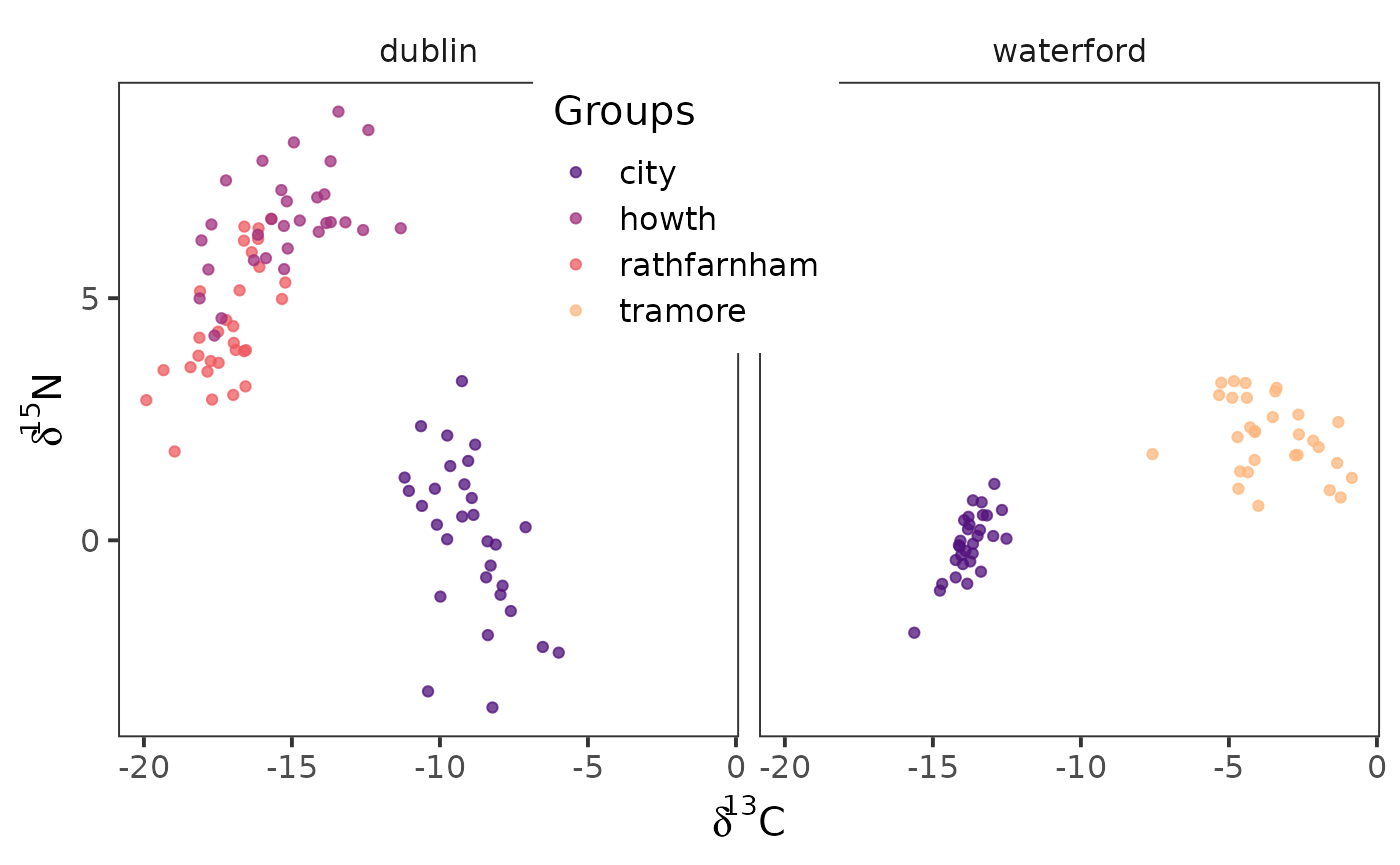
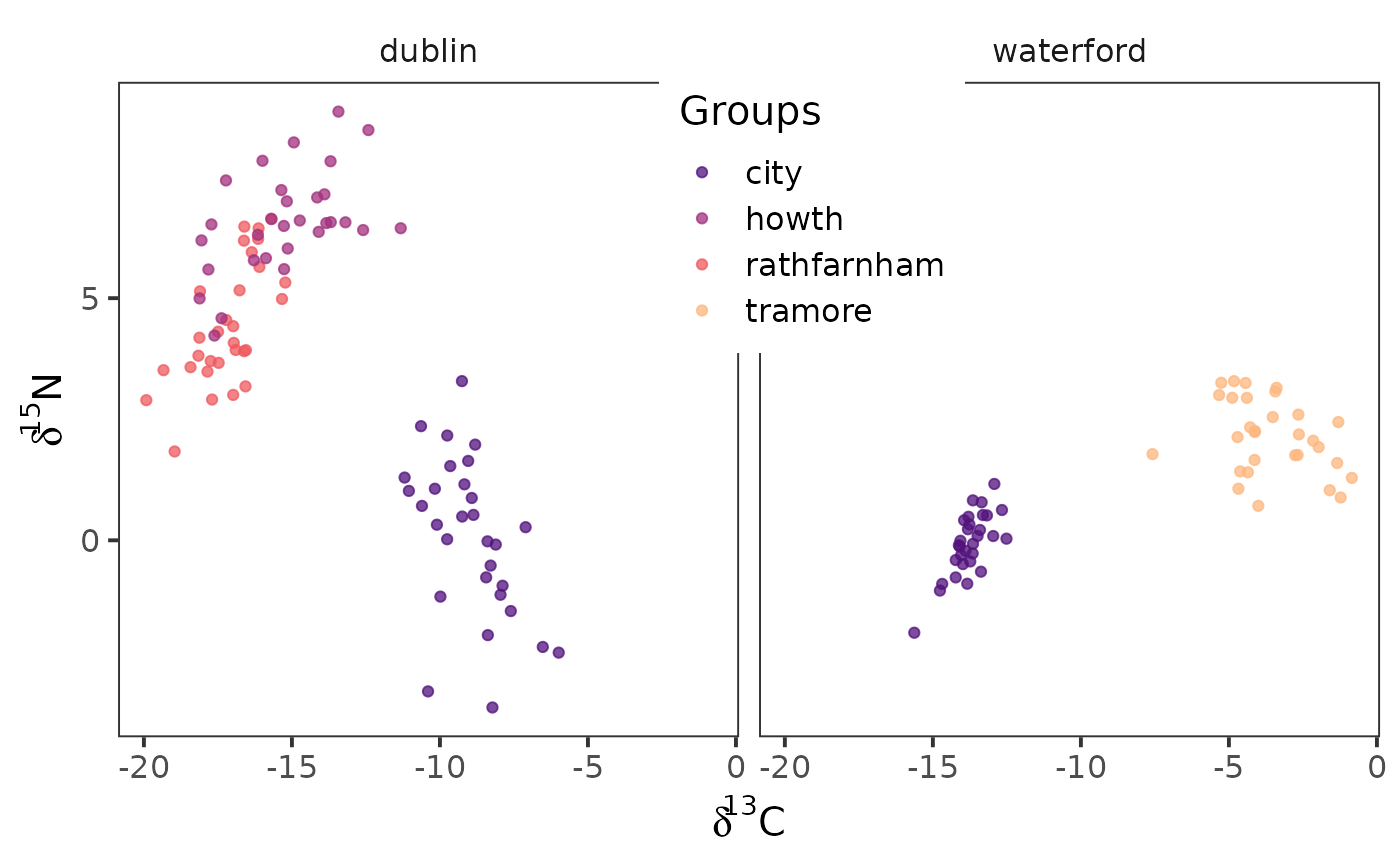
Deploying to gh-pages from @ benjaminhlina/nichetools@be2548bd6c36233514e17e11f99241a72b308791 🚀

Changed region(s): [[0.3993, 0.1873, 0.6757, 0.3746], [0.3993, 0.0936, 0.5836, 0.1561], [0.6143, 0.0936, 0.6757, 0.1249]]

diff --git a/articles/using-nichetools-with-the-package-SIBER.html b/articles/using-nichetools-with-the-package-SIBER.html
@@ -199,7 +199,7 @@ stucture.</p>
 <span>    strip.background <span class="op">=</span> <span class="fu"><a href="https://ggplot2.tidyverse.org/reference/element.html" class="external-link">element_blank</a></span><span class="op">(</span><span class="op">)</span>,</span>
 <span>    panel.grid <span class="op">=</span> <span class="fu"><a href="https://ggplot2.tidyverse.org/reference/element.html" class="external-link">element_blank</a></span><span class="op">(</span><span class="op">)</span>, </span>
 <span>    legend.position <span class="op">=</span> <span class="st">"inside"</span>,</span>
-<span>    legend.position.inside <span class="op">=</span> <span class="fu"><a href="https://rdrr.io/r/base/c.html" class="external-link">c</a></span><span class="op">(</span><span class="fl">0.45</span>, <span class="fl">0.8</span><span class="op">)</span></span>
+<span>    legend.position.inside <span class="op">=</span> <span class="fu"><a href="https://rdrr.io/r/base/c.html" class="external-link">c</a></span><span class="op">(</span><span class="fl">0.55</span>, <span class="fl">0.8</span><span class="op">)</span></span>
 <span>  <span class="op">)</span> <span class="op">+</span> </span>
 <span>  <span class="fu"><a href="https://ggplot2.tidyverse.org/reference/labs.html" class="external-link">labs</a></span><span class="op">(</span></span>
 <span>    x <span class="op">=</span> <span class="fu"><a href="https://rdrr.io/r/base/expression.html" class="external-link">expression</a></span><span class="op">(</span><span class="fu"><a href="https://rdrr.io/r/base/paste.html" class="external-link">paste</a></span><span class="op">(</span><span class="va">delta</span><span class="op">^</span><span class="fl">13</span>,<span class="st">"C"</span><span class="op">)</span><span class="op">)</span>, </span>
@@ -307,7 +307,7 @@ are correct by plotting them with {ggplot2}</p>
 <span>    strip.background <span class="op">=</span> <span class="fu"><a href="https://ggplot2.tidyverse.org/reference/element.html" class="external-link">element_blank</a></span><span class="op">(</span><span class="op">)</span>,</span>
 <span>    panel.grid <span class="op">=</span> <span class="fu"><a href="https://ggplot2.tidyverse.org/reference/element.html" class="external-link">element_blank</a></span><span class="op">(</span><span class="op">)</span>, </span>
 <span>    legend.position <span class="op">=</span> <span class="st">"inside"</span>,</span>
-<span>    legend.position.inside <span class="op">=</span> <span class="fu"><a href="https://rdrr.io/r/base/c.html" class="external-link">c</a></span><span class="op">(</span><span class="fl">0.45</span>, <span class="fl">0.8</span><span class="op">)</span></span>
+<span>    legend.position.inside <span class="op">=</span> <span class="fu"><a href="https://rdrr.io/r/base/c.html" class="external-link">c</a></span><span class="op">(</span><span class="fl">0.55</span>, <span class="fl">0.8</span><span class="op">)</span></span>
 <span>  <span class="op">)</span> <span class="op">+</span> </span>
 <span>  <span class="fu"><a href="https://ggplot2.tidyverse.org/reference/labs.html" class="external-link">labs</a></span><span class="op">(</span></span>
 <span>    x <span class="op">=</span> <span class="fu"><a href="https://rdrr.io/r/base/expression.html" class="external-link">expression</a></span><span class="op">(</span><span class="fu"><a href="https://rdrr.io/r/base/paste.html" class="external-link">paste</a></span><span class="op">(</span><span class="va">delta</span><span class="op">^</span><span class="fl">13</span>,<span class="st">"C"</span><span class="op">)</span><span class="op">)</span>, </span>
